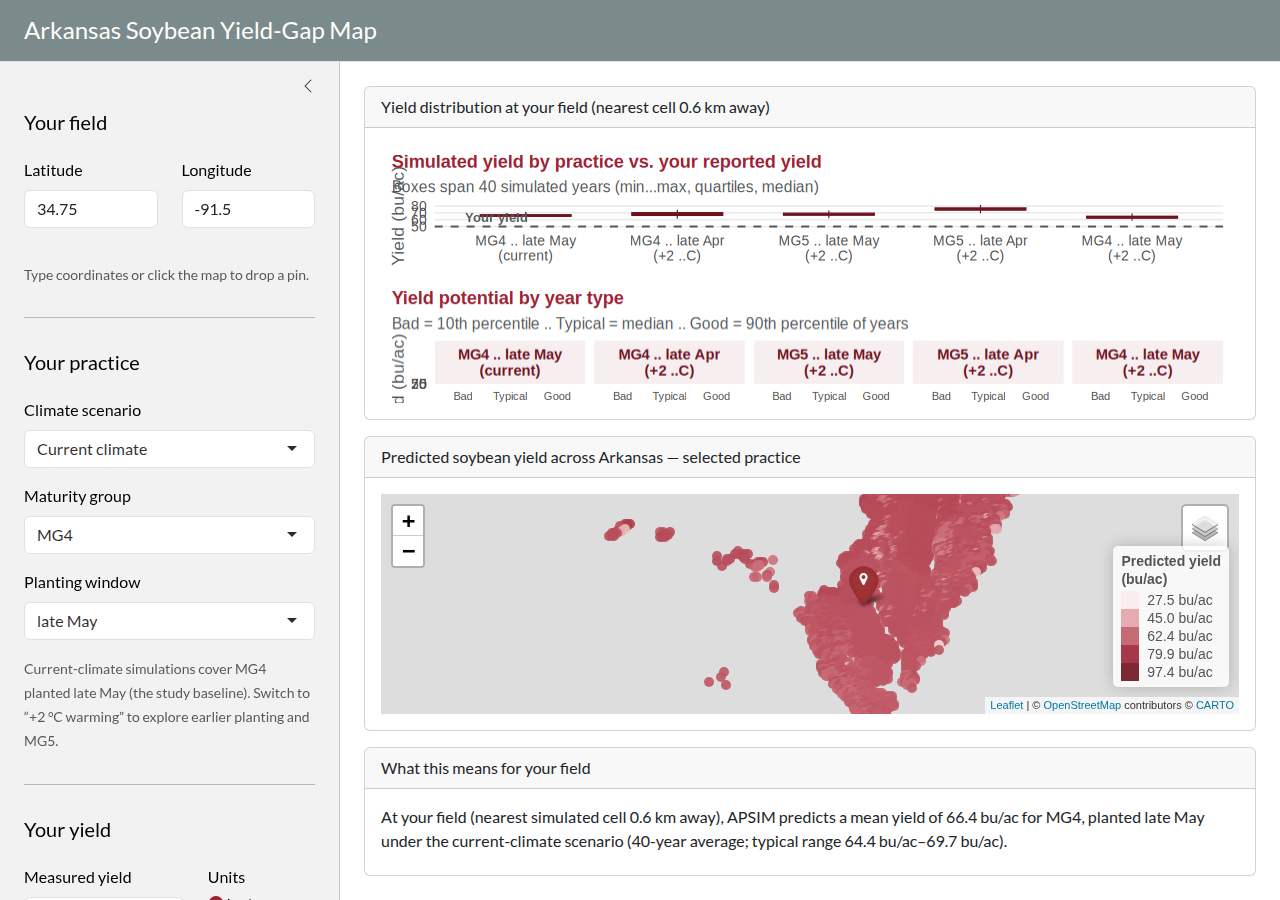
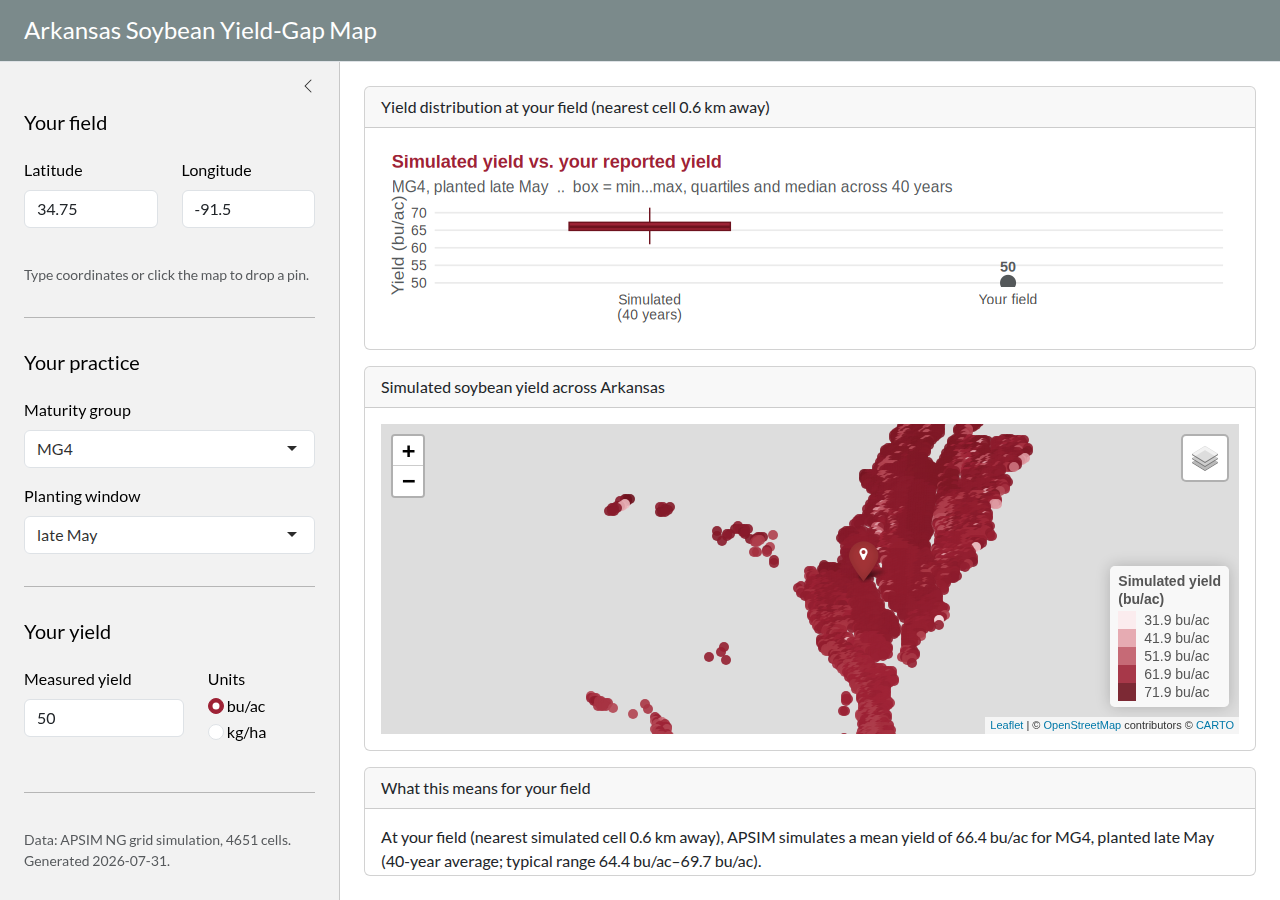
Simplify app: current-climate baseline, single simulated-vs-observed boxplot
Per request, pare the app back to essentials:
  - Remove the +2 °C warming scenarios from the app (climate + CO2 selectors,
    adaptation-upside logic, and related narrative). The app now uses only the
    current-climate baseline; the warming scenarios are still produced by the
    simulation and can be re-added later.
  - Remove the year-type (bad/typical/good) small-multiples plot.
  - Reduce the boxplot to a single, clear comparison: the simulated 40-year
    yield distribution for the farmer's selected practice vs. their reported
    yield (shown as a point), keeping the UARK cardinal styling.

Map, nearest-cell lookup, unit toggle and narrative are unchanged in spirit,
just trimmed to the baseline scenario. Smoke tests + README updated; screenshot
refreshed.

Claude-Session: https://claude.ai/code/session_0165KiGpL55aR48K4cm5rbNK

diff --git a/README.md b/README.md
@@ -99,17 +99,18 @@ predicted yield. The grower:
 The app finds the nearest simulated grid cell and shows, above a filled
 cardinal-red yield map of Arkansas:
 
-- A **boxplot** of the simulated 40-year yield distribution for every practice at
-  that cell, with the grower's reported yield drawn as a reference line — the
-  **yield gap** is the distance between the two.
-- **Year-type small multiples**: for each practice, the yield in a *bad* year
-  (10th percentile), a *typical* year (median) and a *good* year (90th
-  percentile) — the yield potential a grower can plan around.
-- A narrative summary: predicted yield, the gap, and the **adaptation upside**
-  from earlier planting / a longer maturity group under +2 °C warming.
+- A simple **boxplot** comparing the simulated 40-year yield distribution for the
+  grower's selected practice against their own reported yield — the **yield gap**
+  is the distance between the two.
+- A narrative summary: the simulated mean, its typical (10th–90th percentile)
+  range, and how the grower's reported yield compares.
 
 The interface is styled in **University of Arkansas cardinal (#9D2235)** so the
-map and figures can be embedded directly in a university web page.
+map and figure can be embedded directly in a university web page.
+
+> This first version focuses on the **current-climate baseline**. The warming
+> (+2 °C) scenarios and the year-type breakdown are still produced by the
+> simulation and can be layered back into the app when needed.
 
 ### Run locally
 
